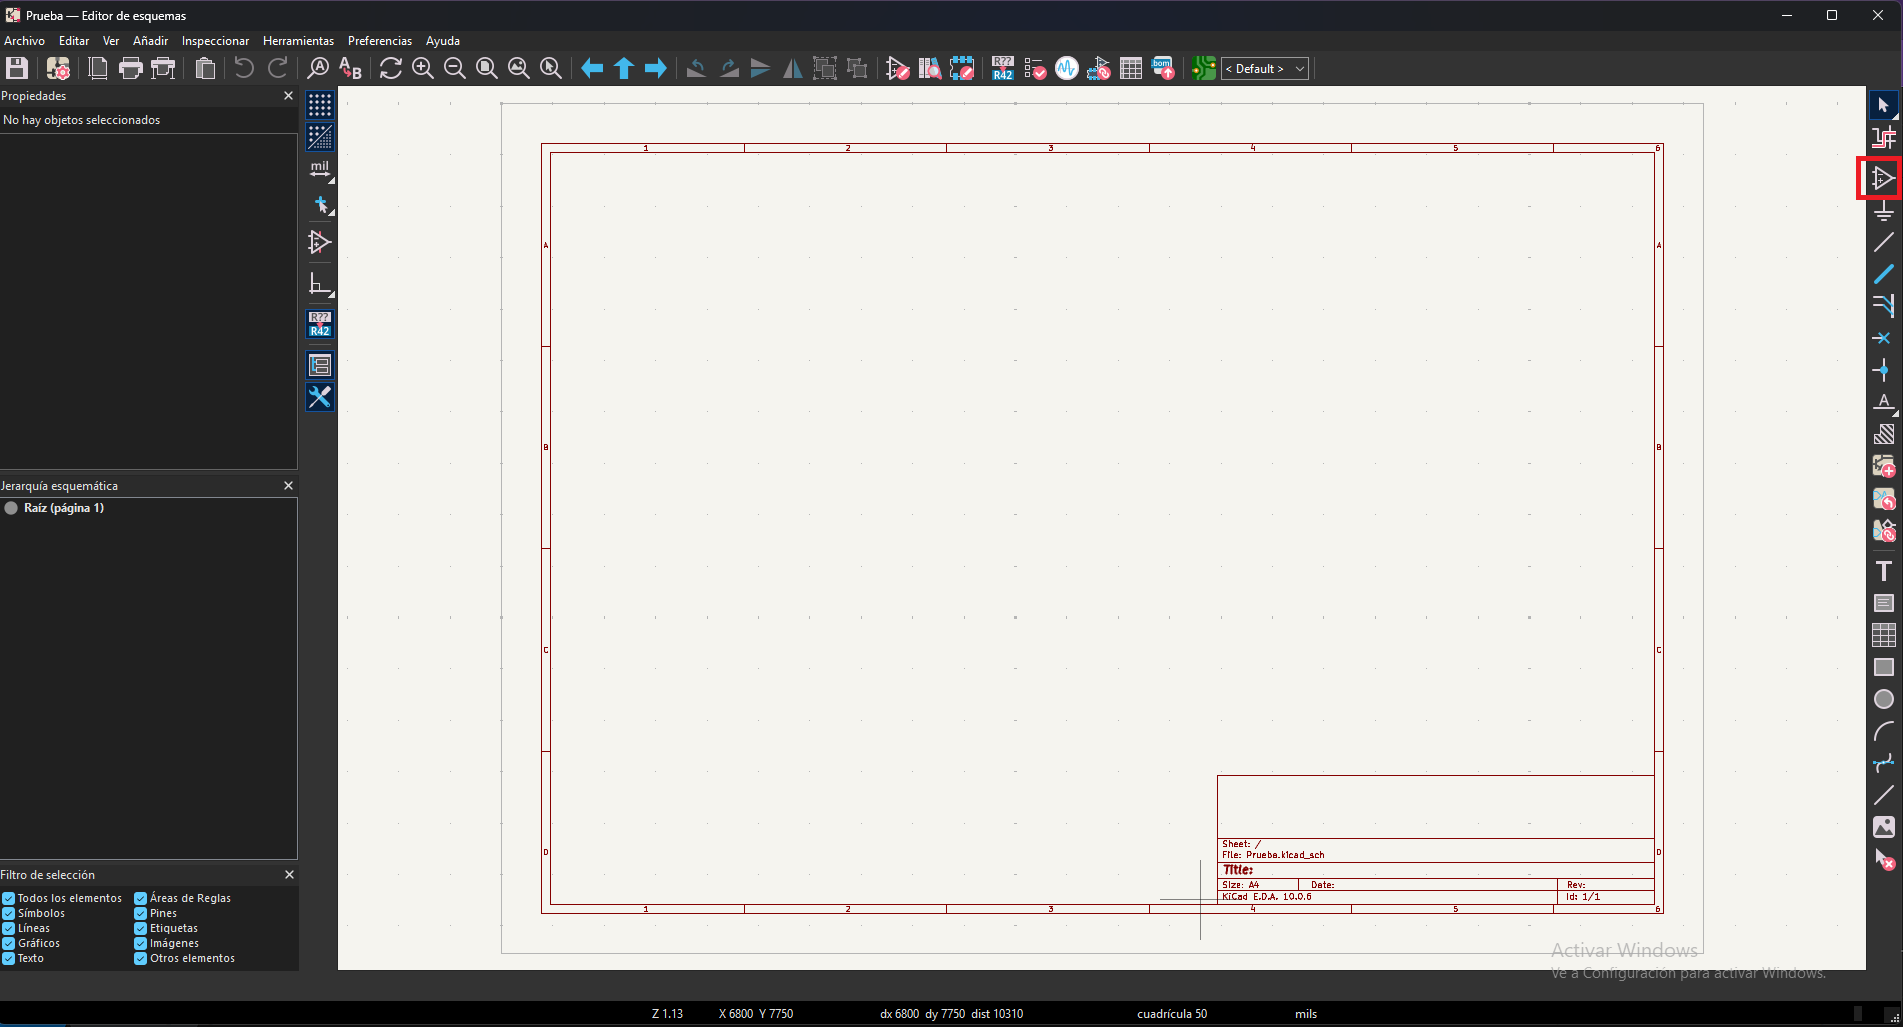
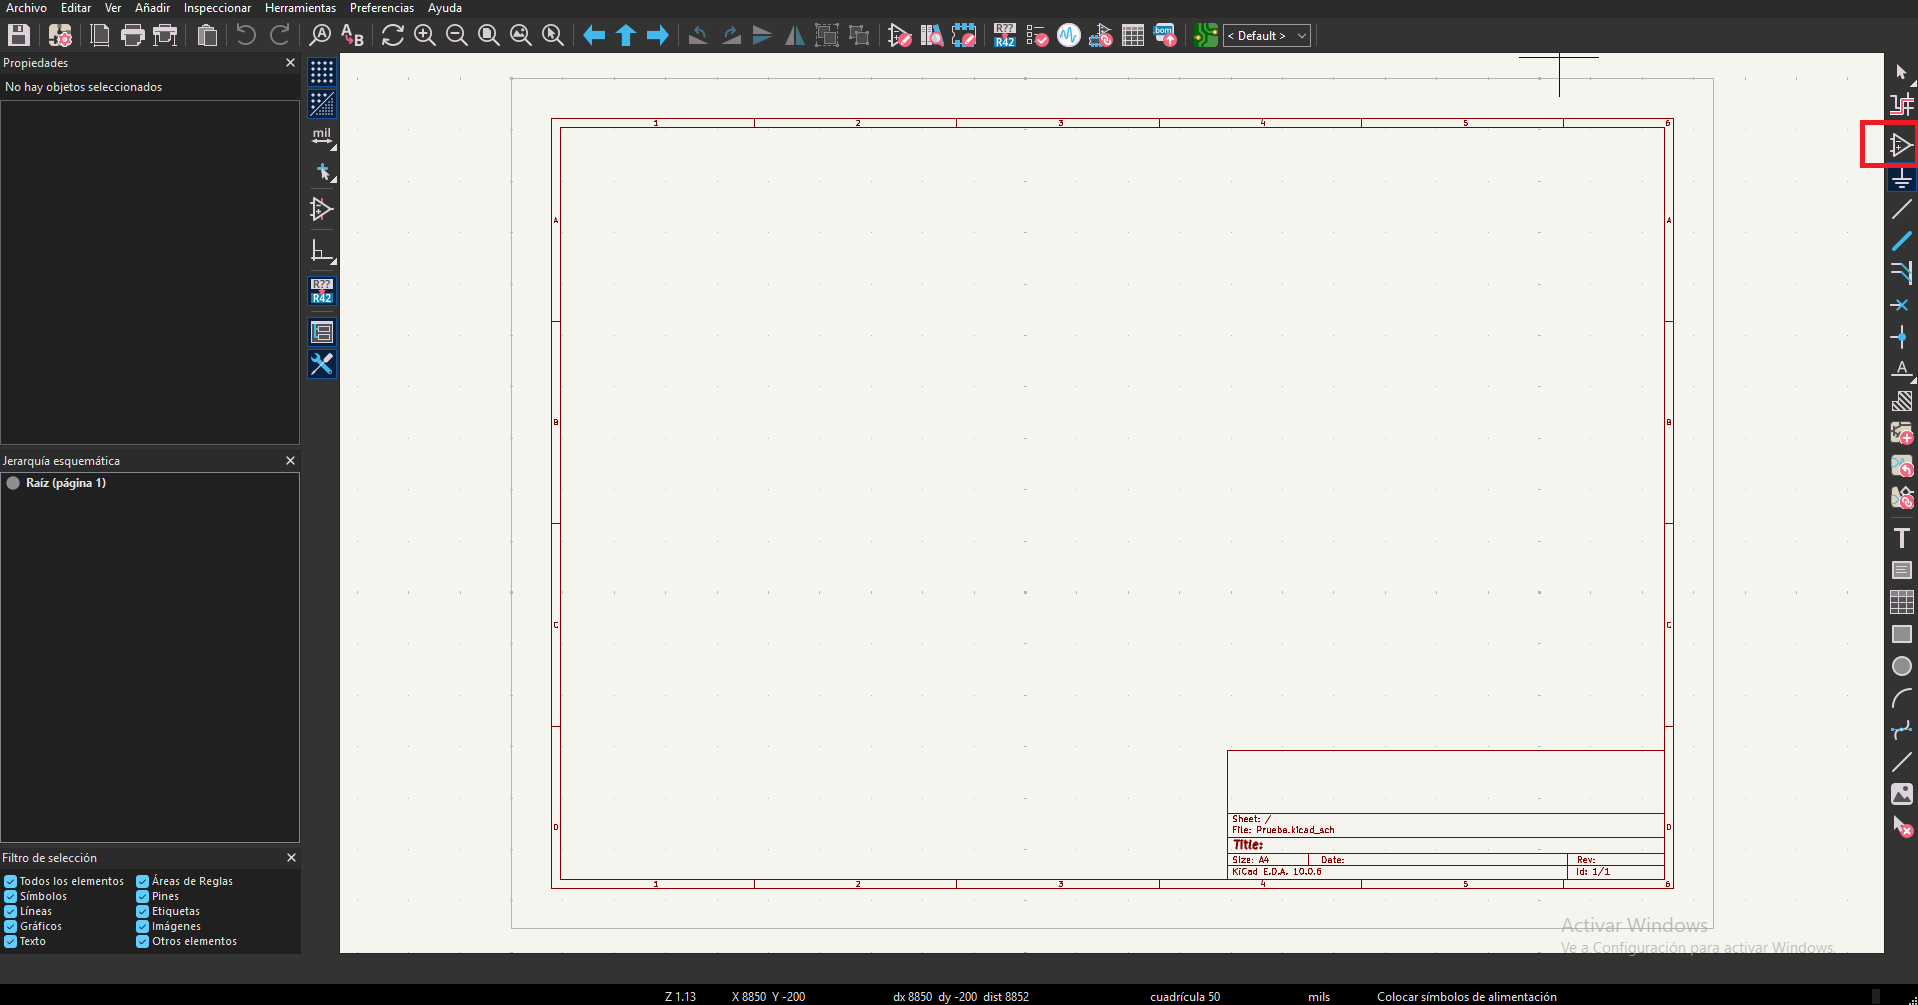
ee

diff --git a/index.html b/index.html
@@ -423,21 +423,6 @@
       line-height: 1.6;
     }
 
-    .detalle-practica .imagenes-practica {
-      display: grid;
-      grid-template-columns: repeat(auto-fit, minmax(220px, 1fr));
-      gap: 16px;
-    }
-
-    .detalle-practica .imagenes-practica img {
-      width: 100%;
-      height: 200px;
-      object-fit: cover;
-      border-radius: 12px;
-      box-shadow: 0 6px 14px rgba(0,0,0,0.12);
-    }
-
-    /* Bloque de una sección de práctica (título + texto/imagen). Da aire entre secciones */
     .paso-bloque {
       margin-bottom: 44px;
       padding-bottom: 8px;
@@ -447,114 +432,6 @@
       margin-bottom: 0;
     }
 
-    .practica-columnas {
-      display: flex;
-      flex-direction: column;
-      gap: 18px;
-    }
-
-    .practica-texto {
-      order: 1;
-    }
-
-    .practica-texto p {
-      margin: 0 0 14px;
-      color: #444;
-      font-size: 1rem;
-      line-height: 1.7;
-    }
-
-    .practica-texto p:last-child {
-      margin-bottom: 0;
-    }
-
-    .practica-texto p a {
-      display: inline;
-      background: none;
-      padding: 0;
-      border-radius: 0;
-      color: #8e44ad;
-      font-weight: 600;
-      text-decoration: underline;
-    }
-
-    .practica-texto p a:hover {
-      background: none;
-      transform: none;
-      color: #2c3e50;
-    }
-
-    /* Listas numeradas de pasos dentro de cada sección */
-    .practica-texto .pasos {
-      margin: 0;
-      padding-left: 0;
-      list-style: none;
-      counter-reset: paso-contador;
-      display: flex;
-      flex-direction: column;
-      gap: 12px;
-    }
-
-    .practica-texto .pasos li {
-      counter-increment: paso-contador;
-      position: relative;
-      padding-left: 38px;
-      color: #444;
-      font-size: 1rem;
-      line-height: 1.6;
-      text-align: left;
-    }
-
-    .practica-texto .pasos li::before {
-      content: counter(paso-contador);
-      position: absolute;
-      left: 0;
-      top: 0;
-      width: 26px;
-      height: 26px;
-      border-radius: 50%;
-      background: #8e44ad;
-      color: #fff;
-      font-size: 0.85rem;
-      font-weight: 700;
-      display: flex;
-      align-items: center;
-      justify-content: center;
-    }
-
-    .practica-imagen {
-      order: 2;
-      display: flex;
-      flex-direction: column;
-      gap: 16px;
-    }
-
-    .practica-imagen img {
-      width: 100%;
-      height: auto;
-      display: block;
-      border-radius: 14px;
-      box-shadow: 0 8px 18px rgba(0,0,0,0.15);
-    }
-
-    @media (min-width: 820px) {
-      .practica-columnas {
-        flex-direction: row;
-        align-items: flex-start;
-        gap: 34px;
-      }
-      .practica-texto {
-        flex: 1 1 50%;
-        min-width: 0;
-      }
-      .practica-imagen {
-        flex: 1 1 50%;
-        min-width: 0;
-      }
-    }
-
-    /* Pares texto + imagen: un párrafo de texto junto a SU foto correspondiente,
-       con un mini-subtítulo (figcaption) debajo de cada imagen */
     .practica-item {
       display: flex;
       flex-direction: column;
@@ -830,82 +707,94 @@
               <p>Una vez dentro del esquematico debemos agregar los componentes que necesitemos para la fabricacion de la Placa, gracias a la libreria FabLab tenemos todo lo necesario, para buscar un componente se puede oprimir la tecla "A" o en el boton indicado en la siguiente imagen.</p>
             </div>
             <figure class="item-imagen">
-              <img src="Fotos_Practica2_Placa/Tecla_esquema.png" alt="Resistor">
+              <img src="Fotos_Practica2_Placa/Tecla_esquema.png" alt="Esquema">
               <figcaption>Abrir componentes en esquematico</figcaption>
             </figure>
           </div>
 
           <div class="practica-item">
             <div class="item-texto">
-              <ol class="pasos">
-                <li>Colocar los componentes y realizar las conexiones.</li>
-                <li>Ejecutar ERC y corregir los errores encontrados.</li>
-              </ol>
+              <p>Una vez abierto nuestro selector de componentes podemos buscar los componentes que ocupemos para nuestro trabajo buscando en la barra de busqueda ubicada en la parte superior izquierda, es importante que los componentes que escogamos tengan huella ya que sin huella nuestros componentes no serviran cuando cambiemos al editor de placas el ejemplo de la huella esta en la siguiente imagen.</p>
             </div>
             <figure class="item-imagen">
-              <img src="Fotos_Practica2_Placa/ERC.png" alt="ERC">
-              <figcaption>Revisión ERC</figcaption>
+              <img src="Fotos_Practica2_Placa/Huella.png" alt="R3">
+              <figcaption>Selector de componentes</figcaption>
             </figure>
           </div>
         </div>
 
         <div class="paso-bloque">
-          <h5 class="titulo-seccion">4. Abrir el editor de placas</h5>
+          <h5 class="titulo-seccion">4. Fabricacion circuito en esquematico</h5>
 
           <div class="practica-item">
             <div class="item-texto">
-              <ol class="pasos">
-                <li>Entrar al editor de PCB desde el proyecto.</li>
-              </ol>
+              <p>Una vez que hayamos agregado todos los componentes necesarios, podemos proceder a la fabricación del circuito en el esquematico, tenemos 2 maneras de unir los componentes la primera es presionando la tecla "V" para usar dibujar cables o la segunda presionando el boton dibujar cables que se muestra en la siguiente imagen.</p>
             </div>
             <figure class="item-imagen">
-              <img src="Fotos_Practica2_Placa/Editor_PCB.png" alt="Editor PCB">
-              <figcaption>Editor de PCB</figcaption>
-            </figure>
-          </div>
-
-          <div class="practica-item">
-            <div class="item-texto">
-              <ol class="pasos" start="2">
-                <li>Importar los elementos provenientes del esquemático.</li>
-                <li>Ordenar los componentes dentro del área de la placa.</li>
-                <li>Definir y revisar las capas que se utilizarán.</li>
-              </ol>
-            </div>
-            <figure class="item-imagen">
-              <img src="Fotos_Practica2_Placa/Importar_esquematico.png" alt="Importar esquematico">
-              <figcaption>Importación del esquemático</figcaption>
-            </figure>
-          </div>
-
-          <div class="practica-item">
-            <div class="item-texto">
-              <ol class="pasos" start="5">
-                <li>Crear las pistas y revisar su ancho.</li>
-              </ol>
-            </div>
-            <figure class="item-imagen">
-              <img src="Fotos_Practica2_Placa/Ancho_pista.png" alt="Ancho pista">
-              <figcaption>Ancho de pista</figcaption>
+              <img src="Fotos_Practica2_Placa/Dibujar_cables.png" alt="Cables">
+              <figcaption>Boton Dibujar Cables</figcaption>
             </figure>
           </div>
         </div>
 
         <div class="paso-bloque">
-          <h5 class="titulo-seccion">5. Revisar el diseño</h5>
+          <h5 class="titulo-seccion">5. DRC (Design Rule Check)</h5>
+
           <div class="practica-item">
             <div class="item-texto">
-              <ol class="pasos">
-                <li>Ejecutar DRC.</li>
-                <li>Corregir los errores encontrados.</li>
-                <li>Comprobar que las conexiones estén completas y que el contorno de la placa esté correctamente definido.</li>
-              </ol>
+              <p>Una vez que hayamos terminado de dibujar los cables, podemos ejecutar el DRC para verificar que el diseño cumpla con las reglas de diseño, el boton de DRC se encuentra en la barra de herramientas superior central como se muestra en la imagen, tambien es conocido como "ERC" si su programa esta en español.</p>
             </div>
             <figure class="item-imagen">
               <img src="Fotos_Practica2_Placa/DRC.png" alt="DRC">
-              <figcaption>Revisión DRC</figcaption>
+              <figcaption>Botón DRC</figcaption>
             </figure>
           </div>
+
+          <div class="practica-item">
+            <div class="item-texto">
+              <p>Una vez abierto el DRC debemos selecionar el boton que dice "Run DRC" o "Ejecutar ERC", nos mostrara los errores que tengamos en nuestro diseño, si no hay errores nos mostrara un mensaje de que no hay errores y podemos continuar con la fabricación de la placa.</p>
+            </div>
+            <figure class="item-imagen">
+              <img src="Fotos_Practica2_Placa/Ejecutar_DRC.png" alt="Ejecutar DRC">
+              <figcaption>Botón Ejecutar DRC</figcaption>
+            </figure>
+          </div>
+        </div>
+
+        <div class="paso-bloque">
+          <h5 class="titulo-seccion">6. Editor de placas</h5>
+
+          <div class="practica-item">
+            <div class="item-texto">
+              <p>Cuando nuestros diseños del esquematico estén listos, podemos pasar al editor de placas, para pasar al editor de placas tenemos un boton llamado cambiar al editor de placas en la barra de herramientas superior central, el ultimo boton a la derecha en la siguiente imagen se muestra con exactitud el boton.</p>
+            </div>
+            <figure class="item-imagen">
+              <img src="Fotos_Practica2_Placa/Editor_de_Placas.png" alt="Cambio a Editor de Placas">
+              <figcaption>Cambio a Editor de Placas</figcaption>
+            </figure>
+          </div>
+
+          <div class="practica-item">
+            <div class="item-texto">
+              <p>Para poder pasar nuestro circuito al editor de placas, debemos extraer la placa desde el esquematico, para ello utilizamos el boton "Extraer placa" o "Update Board" en la barra de herramientas superior central, indicado en la siguiente imagen.</p>
+            </div>
+            <figure class="item-imagen">
+              <img src="Fotos_Practica2_Placa/Extraer_placa.png" alt="Extraer placa">
+              <figcaption>Actualizar placa desde el esquematico</figcaption>
+            </figure>
+          </div>
+
+          <div class="practica-item">
+            <div class="item-texto">
+              <p>Una vez seleccionado el botón nos aparecerá la siguiente ventana, si su placa no marca errores podemos actualizar la placa desde el esquematico pulsando el boton de actualizar placa
+                como se muestra en la siguiente imagen.</p>
+            </div>
+            <figure class="item-imagen">
+              <img src="Fotos_Practica2_Placa/Ventana.png" alt="Descripción 2">
+              <figcaption>Ventana de actualización de placa</figcaption>
+            </figure>
+          </div>
+
         </div>
 
       </div>
@@ -919,10 +808,7 @@
           <h5 class="titulo-seccion">1. Entrar a Mods</h5>
           <div class="practica-item">
             <div class="item-texto">
-              <ol class="pasos">
-                <li>Abrir el programa de Mods.</li>
-                <li>Seleccionar el programa correspondiente a la máquina de fabricación.</li>
-              </ol>
+              <p>Abrir el programa de Mods y seleccionar el programa correspondiente a la máquina de fabricación.</p>
             </div>
             <figure class="item-imagen">
               <img src="Fotos_Practica3_Mods/Programa.png" alt="Programa">
@@ -935,10 +821,7 @@
           <h5 class="titulo-seccion">2. Seleccionar el archivo</h5>
           <div class="practica-item">
             <div class="item-texto">
-              <ol class="pasos">
-                <li>Seleccionar el archivo exportado desde KiCad.</li>
-                <li>Mantener identificados por separado los archivos de pistas, etiquetas, perforaciones y contorno.</li>
-              </ol>
+              <p>Seleccionar el archivo exportado desde KiCad. Mantener identificados por separado los archivos de pistas, etiquetas, perforaciones y contorno.</p>
             </div>
             <figure class="item-imagen">
               <img src="Fotos_Practica3_Mods/Archivo.png" alt="Archivo">
@@ -951,11 +834,7 @@
           <h5 class="titulo-seccion">3. Invertir la selección cuando sea necesario</h5>
           <div class="practica-item">
             <div class="item-texto">
-              <ol class="pasos">
-                <li>Revisar la vista previa del archivo.</li>
-                <li>Si las pistas o etiquetas aparecen invertidas, utilizar la opción de Invert indicada en Mods.</li>
-                <li>Comprobar nuevamente la vista previa antes de continuar.</li>
-              </ol>
+              <p>Revisar la vista previa del archivo. Si las pistas o etiquetas aparecen invertidas, utilizar la opción de Invert indicada en Mods. Comprobar nuevamente la vista previa antes de continuar.</p>
             </div>
             <figure class="item-imagen">
               <img src="Fotos_Practica3_Mods/Invertir.png" alt="Invertir">
@@ -968,11 +847,7 @@
           <h5 class="titulo-seccion">4. Seleccionar el tipo de cortador</h5>
           <div class="practica-item">
             <div class="item-texto">
-              <ol class="pasos">
-                <li>Seleccionar el tipo de cortador correspondiente.</li>
-                <li>Revisar los parámetros mostrados por Mods.</li>
-                <li>Comparar el resultado de la vista previa con el diseño original.</li>
-              </ol>
+              <p>Seleccionar el tipo de cortador correspondiente. Revisar los parámetros mostrados por Mods. Comparar el resultado de la vista previa con el diseño original.</p>
             </div>
             <figure class="item-imagen">
               <img src="Fotos_Practica3_Mods/Cortador.png" alt="Cortador">
@@ -986,10 +861,7 @@
 
           <div class="practica-item">
             <div class="item-texto">
-              <ol class="pasos">
-                <li>Configurar el origen del archivo.</li>
-                <li>Comprobar que la posición del diseño coincida con la orientación esperada.</li>
-              </ol>
+              <p>Configurar el origen del archivo. Comprobar que la posición del diseño coincida con la orientación esperada.</p>
             </div>
             <figure class="item-imagen">
               <img src="Fotos_Practica3_Mods/Origen.png" alt="Origen">
@@ -999,9 +871,7 @@
 
           <div class="practica-item">
             <div class="item-texto">
-              <ol class="pasos" start="3">
-                <li>Guardar los archivos.</li>
-              </ol>
+              <p>Guardar los archivos.</p>
             </div>
             <figure class="item-imagen">
               <img src="Fotos_Practica3_Mods/Guardar.png" alt="Guardar">
